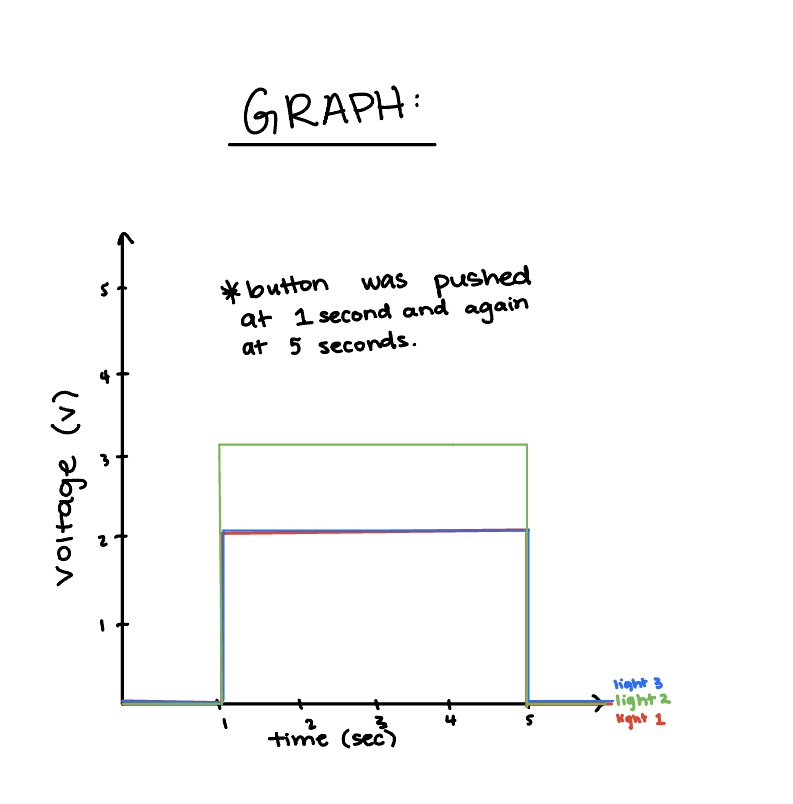
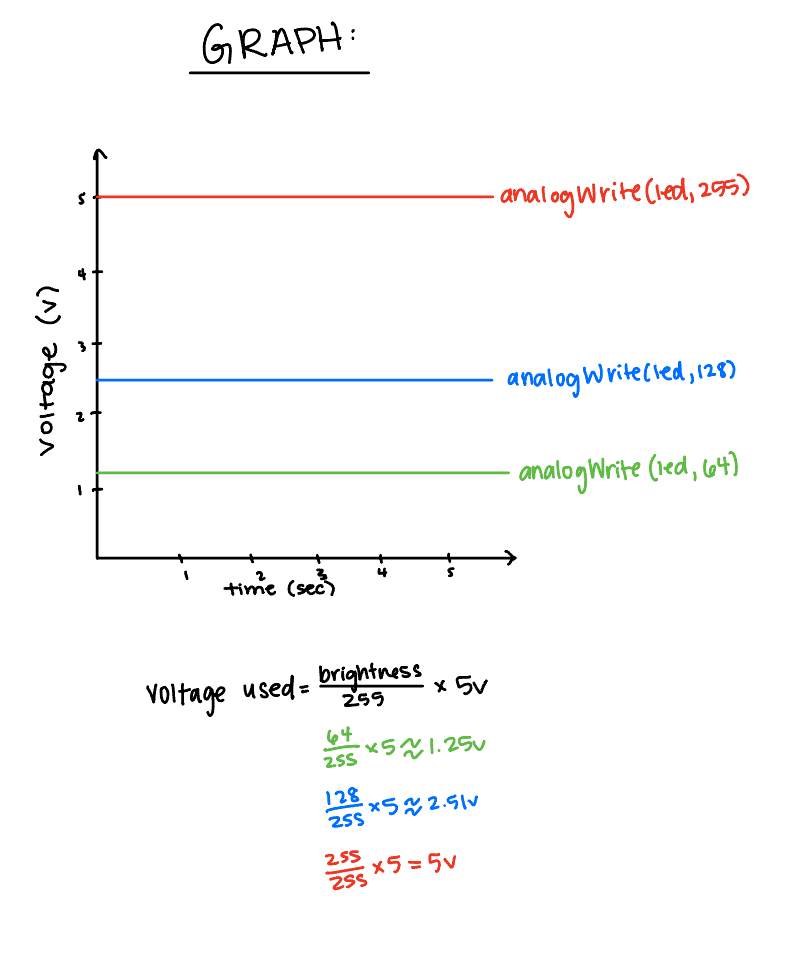
commit 2: updated graphs and captioning for calculations

Changed region(s): [[0.0305, 0.0311, 0.9442, 0.9328]]

diff --git a/docs/a2.html b/docs/a2.html
@@ -21,17 +21,15 @@
         of the code that I used to complete this assignment<br/>
         <br/>
         Additional Questions:<br/>
-        1: How many LEDs could you blink independently with your Arduino?
-        How much current would that draw?<br/>
-        You can blink 14 LEDs with our arduino because there is 14 different 
-        pin holes to connect independent LEDs to. The maximum current that
-        can be reached safely on the arduino is 200mA, which would round to
-        about 14.3mA per LED.<br/>
+        1: If all your LEDs were on simultaneously, what would the total current
+        draw be? Is this above or below the total Arduino current draw limits?
+        If all your LEDs were on, how long would your circuit run if powered by
+        a 1200 mAh battery?<br/>
         <br/>
-        2: How fast do you need to blink your LEDs until you no longer can tell
-        that they are blinking?<br/>
-        You need to blink your LEDs at delay(10) for the LEDs to appear like they
-        are no longer blinking.<br/>
+        2: Measure and record the actual voltage across one of your LEDs when
+        it's on.<br/>
+         How does this compare to the theoretical forward voltage for your LED
+         color?<br/>
         <br/>
         3: Did you use AI tools in completing this assignment?<br/>
         I did not use any AI tools to complete this assignment. I referred to
@@ -47,7 +45,10 @@
           which is the resistor. I found V using the total voltage (5V) minus the 
           volatage drop over the LEDs (2V for red LEDs and 3.2V for the green LED).
           I calculated for 20mA over each circuit and solved for each circuit
-          individually, because I constructed parallel circuits.
+          individually, because I constructed parallel circuits. The button switch
+          uses a 10k ohm resistor like we learned in class because there is not a 
+          significant enough voltage drop over the switch, and therefore the 
+          component needs a larger resistor value.
         </p>
       </div>
 
@@ -56,21 +57,23 @@
           <img src="schematic2.jpg" />
         <p>I created these schematics using icons learned in class and basing them
           loosly off the examples we were shown in class. The power source is 5V, 
-          the current is 20mA, and the resistors are 220 for the red LEDs and 100 for
-          the green LED. I labeled all parts of the schematic and used the drawing to
-          create my circuit.
+          the current is 20mA on each branch, and the resistors are 220 for the red
+          LEDs and 100 for the green LED. The resistor for the button switch should
+          be 10K ohms like we learned in class. I labeled all parts of the schematic
+          and used the drawing to create my circuit.
         </p>
       </div>
 
       <div class="graph">
           <h2>Graph:</h2>
           <img src="graph2.jpg" />
-        <p>Because the lights are turning on and off, they are going from complete 
-          voltage output to zero voltage output. The voltage drop is 2V for red LEDs
-          and 3.2V for the green, which is why LED 1 and three max out at 2V for their
-          peak output and why LED2 goes up to 3.2V. The red and green lights are also
-          flashing opposite, which explains why LED1 and LED3 are 0 when LED2 is peaked
-          and vise versa.
+        <p>This is a graph I made that represents three LEDs with different brightnesses,
+          and how much voltage they output at these brightnesses. My logic in the 
+          calculations was that brightness is just a percentage of the full LED voltage
+          output. By dividing the brightness value by the truly brightest value (255), we
+          can multiply the percentage of brightness the LED is using to get the total 
+          voltage output the LED has. My calculations for this graph are shown at the 
+          bottom of the image.
         </p>
       </div>
     </div>
@@ -128,22 +131,25 @@
 
             // if the boolean is true (lights are currently fading)
             if (fading) {
-              // set led 1 to the brightness value
-              analogWrite(led1, brightness);
-              // set led 2 to the brightness value
-              analogWrite(led2, brightness);
-              // set led 3 to the brightness value
-              analogWrite(led3, brightness);
-              // add the fade amount to brightness to make the light brighter
-              brightness += fadeAmount;
-              // if the brightness is at the lowest or highest point of the oscilltion
-              if (brightness <= 0 || brightness >= 255) {
-                // reverse direction of bightness fading (aka make the fade amount
-                // negative from what it is to fade the other way)
-                fadeAmount = -fadeAmount; 
+              // make sure this section of code only runs once
+              for (int i = 0; i < 1; i++) {
+                // set led 1 to the brightness value
+                analogWrite(led1, brightness);
+                // set led 2 to the brightness value
+                analogWrite(led2, brightness);
+                // set led 3 to the brightness value
+                analogWrite(led3, brightness);
+                // add the fade amount to brightness to make the light brighter
+                brightness += fadeAmount;
+                // if the brightness is at the lowest or highest point of the oscilltion
+                if (brightness <= 0 || brightness >= 255) {
+                  // reverse direction of bightness fading (aka make the fade amount
+                  // negative from what it is to fade the other way)
+                  fadeAmount = -fadeAmount; 
+                }
+                // delay the speed of fading so we can see a gradual fade
+                delay(30);
               }
-              // delay the speed of fading so we can see a gradual fade
-              delay(30);
             }
           }
         </pre>
